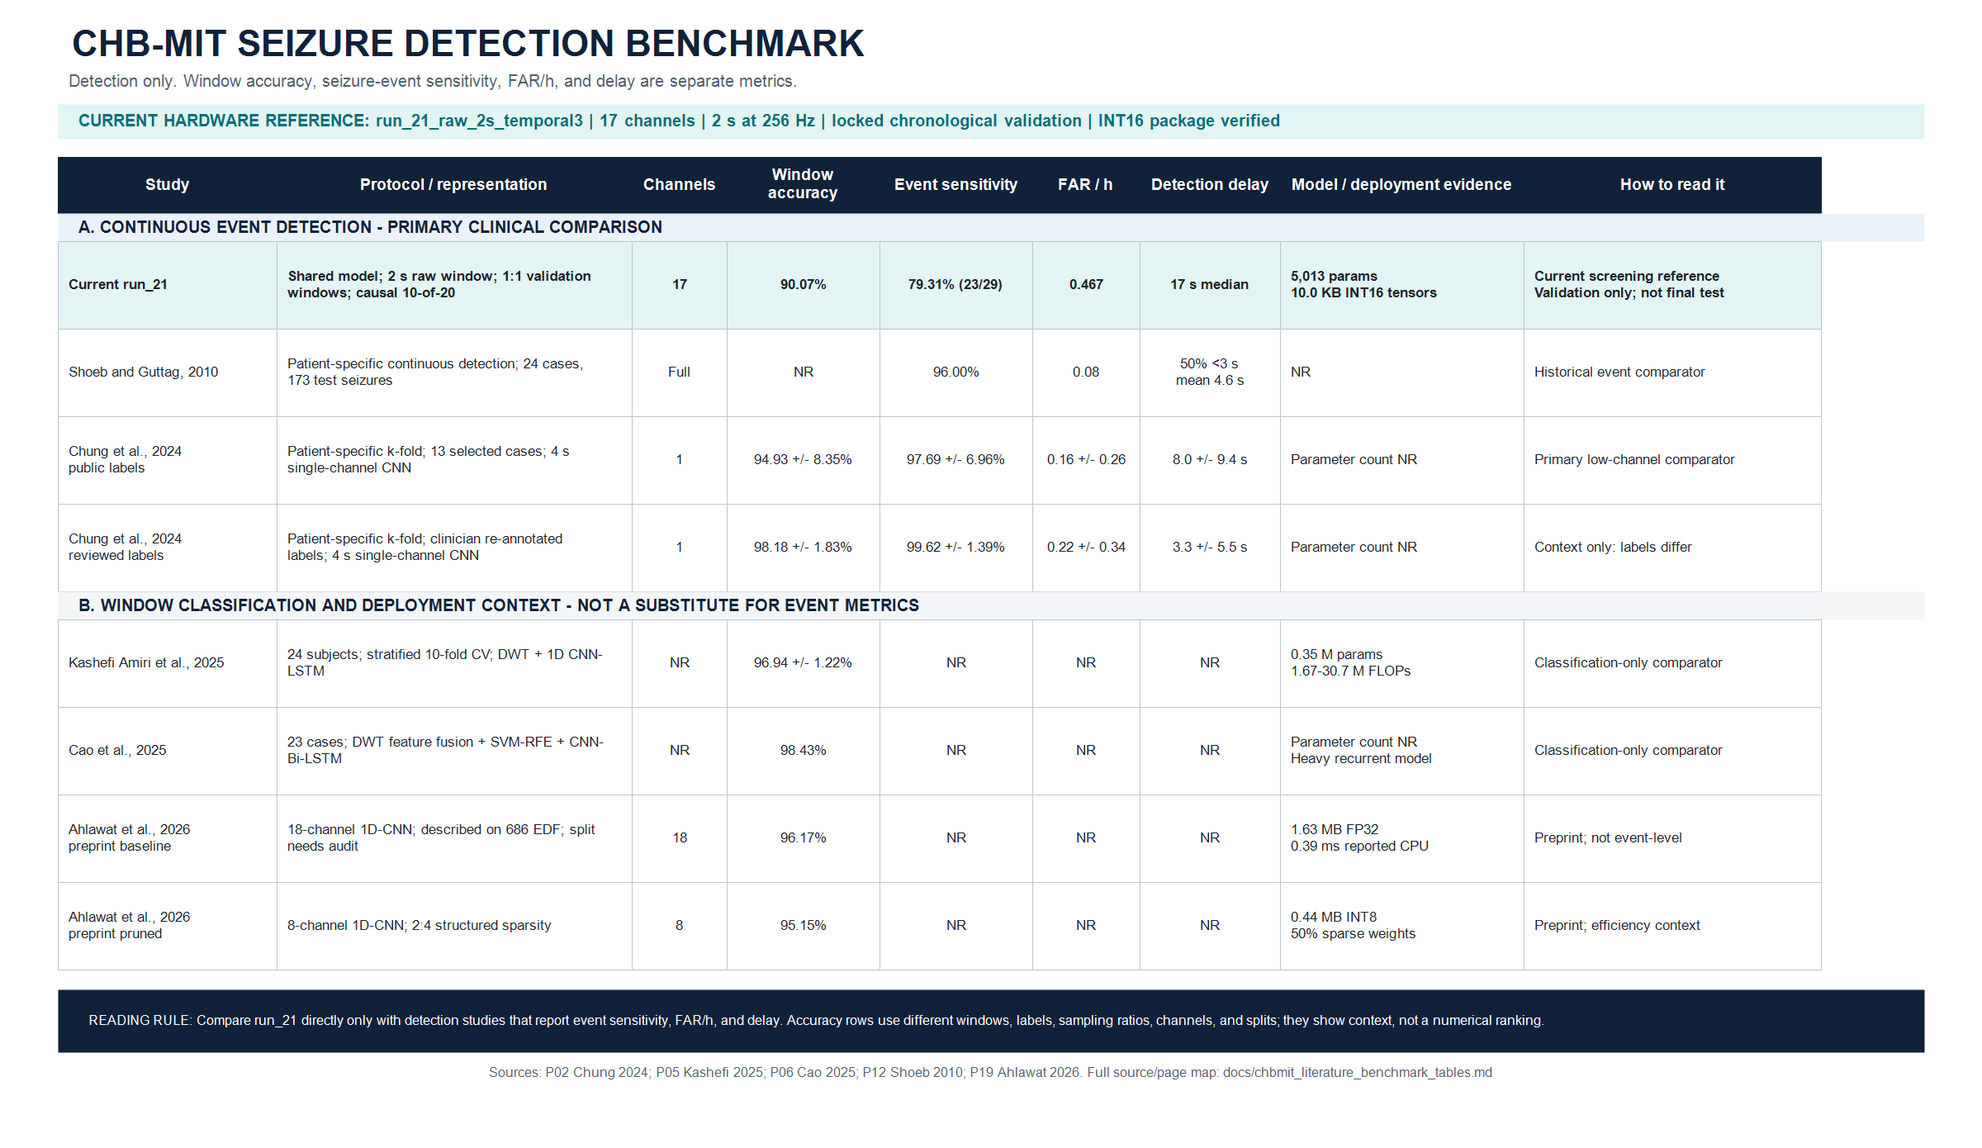
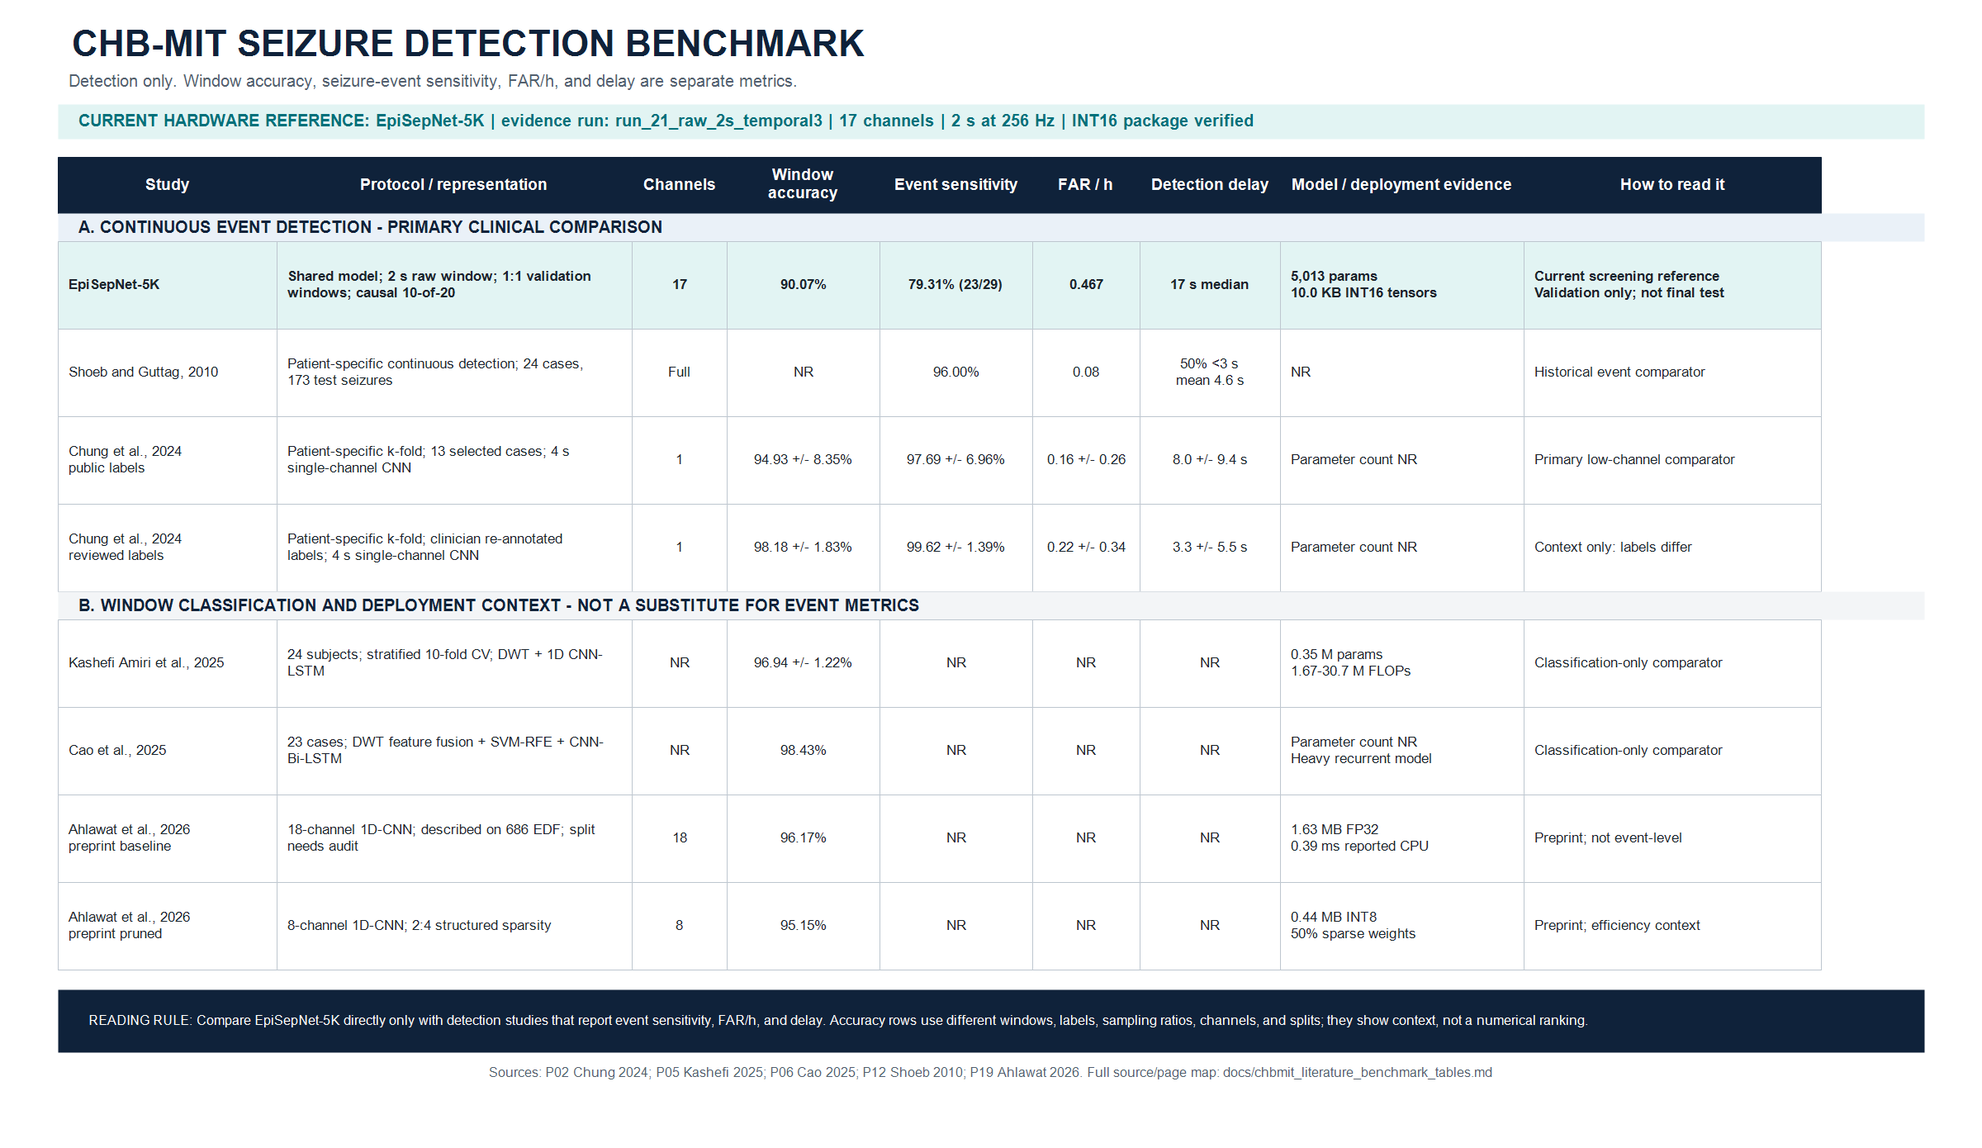
docs: name EpiSepNet benchmark reference

Changed region(s): [[0.125, 0.8662, 0.7812, 0.8971], [0.1875, 0.0928, 0.6562, 0.1237], [0.0312, 0.2475, 0.0625, 0.2784]]

diff --git a/AI_train_model/docs/paper_benchmark_comparison.md b/AI_train_model/docs/paper_benchmark_comparison.md
@@ -48,14 +48,15 @@ The current exploratory test split contains about 91% non-seizure windows;
 therefore its raw accuracy must never be compared to a paper headline or used
 as a clinical selection objective.
 
-## Current Reference: `run_21_raw_2s_temporal3`
+## Current Reference: EpiSepNet-5K
 
-The current model reference is a raw 17-channel separable 1D-CNN trained with
-2-second windows at 256 Hz and a 1-second stride. It uses train-only channel
-z-score normalization, 5,013 trainable parameters, and a causal alarm time at
-the end of each 2-second input window. It is a **validation-only architecture
-screening result** under the locked within-case chronological split; no test
-inference was used to select it.
+**EpiSepNet-5K** is a raw 17-channel separable 1D-CNN trained with 2-second
+windows at 256 Hz and a 1-second stride. It uses train-only channel z-score
+normalization, 5,013 trainable parameters, and a causal alarm time at the end
+of each 2-second input window. Its source experiment is
+`run_21_raw_2s_temporal3`. It is a **validation-only architecture screening
+result** under the locked within-case chronological split; no test inference
+was used to select it.
 
 | Current-model item | Value |
 |---|---:|
@@ -85,7 +86,7 @@ class ratios differ.
 
 | Study | Task and protocol | Reported accuracy | Difference from current 90.07% | Hardware-size evidence |
 |---|---|---:|---:|---|
-| **Current `run_21`** | 17-channel ictal/non-seizure; 2 s; locked within-case chronological validation; 1:1 sampled windows | **90.07%** | 0.00 pp | 5,013 trainable parameters; 10,030 B INT16 tensors |
+| **EpiSepNet-5K** | 17-channel ictal/non-seizure; 2 s; locked within-case chronological validation; 1:1 sampled windows | **90.07%** | 0.00 pp | 5,013 trainable parameters; 10,030 B INT16 tensors |
 | Chung et al. 2024, public labels | Patient-specific; 13 selected cases; one clinical channel; k-fold segment evaluation | 94.93% +/- 8.35% | -4.86 pp | Not reported in a directly comparable form |
 | Kashefi Amiri et al. 2025 | DWT + 1D CNN-LSTM; 10-fold classification | 96.94% +/- 1.22% | -6.87 pp | Reports complexity around 1.67e6; not a parameter count |
 | Alharthi et al. 2022 | Selected-channel 1D-CNN + Bi-LSTM + attention; integrated clinical/CHB-MIT data | up to 96.87% | -6.80 pp | Not reported in a directly comparable form |
@@ -104,12 +105,12 @@ only papers that report a continuous event sensitivity plus false-alarm rate.
 
 | Study | Evaluation setting | Event sensitivity | FAR/h | Delay | Comparison status |
 |---|---|---:|---:|---:|---|
-| **Current `run_21`** | Shared 17-channel model; locked within-case chronological validation; public CHB-MIT labels; causal window-end alarm | **79.31%** | **0.4671** | 17 s median | Current screening reference; not final test result |
+| **EpiSepNet-5K** | Shared 17-channel model; locked within-case chronological validation; public CHB-MIT labels; causal window-end alarm | **79.31%** | **0.4671** | 17 s median | Current screening reference; not final test result |
 | Shoeb and Guttag 2010 | Patient-specific; 24 cases; 916 h continuous test EEG; 173 test seizures | 96% | 0.083 median | 3 s median | Historical continuous-detection comparator |
 | Chung et al. 2024, public labels | Patient-specific; 13 selected cases; single clinical channel | 97.69% +/- 6.96% | 0.16 +/- 0.26 | 8.0 +/- 9.4 s | Primary device-oriented comparator |
 | Chung et al. 2024, reviewed labels | Patient-specific; clinician-reviewed annotations | 99.62% +/- 1.39% | 0.22 +/- 0.34 | 3.3 +/- 5.5 s | Context only; labels are different |
 
-At the internal screening constraint of FAR <= 0.5/h, `run_21` reaches the
+At the internal screening constraint of FAR <= 0.5/h, EpiSepNet-5K reaches the
 constraint but remains below the external event-sensitivity references. Its
 gap to Chung's public-label mean is 18.38 percentage points in sensitivity and
 its FAR/h is 0.3071 higher. Delay is not subtracted numerically because the
@@ -117,7 +118,7 @@ current value is a median while Chung reports mean +/- standard deviation.
 
 ## Hardware Benchmark Position
 
-`run_21` is currently the only model in this repository with both a selected
+EpiSepNet-5K is currently the only model in this repository with both a selected
 window-classification result and a verified fixed-point package. BatchNorm
 folding changes logits by at most `3.81e-06`; INT16 emulation preserves
 validation sensitivity and has 99.9743% prediction agreement with the folded
@@ -128,7 +129,7 @@ continuous event metrics after fixed-point deployment.
 
 ## Benchmark Decision
 
-For the next model iterations, retain `run_21` as the **accuracy and compact
+For the next model iterations, retain EpiSepNet-5K as the **accuracy and compact
 hardware reference**. The next candidate must be compared on validation only
 and should improve the causal event frontier: event sensitivity above 79.31%
 while retaining FAR <= 0.5/h and not increasing the 17 s median delay. A final

diff --git a/AI_train_model/docs/chbmit_literature_benchmark_tables.md b/AI_train_model/docs/chbmit_literature_benchmark_tables.md
@@ -22,6 +22,9 @@ The current project is in the **continuous detection** track. Its 90.07%
 number belongs only to the balanced-window table; it is not event sensitivity
 and it is not a prediction result.
 
+The count and provenance of all available result rows are recorded in
+[`chbmit_benchmark_evidence_inventory.md`](chbmit_benchmark_evidence_inventory.md).
+
 ## A. Seizure Prediction on CHB-MIT
 
 This reproduces and extends the structure of Zhang et al. Table IV. `SPH` is
@@ -67,7 +70,7 @@ held-out test evidence.
 | Khanmohammadi et al. | 5 | NR | Time statistics + spectral power | Adaptive distance change-point detector | 96.00 | 0.12 | 4.2 | NR | Secondary: P02, p. 9 |
 | Chung et al., 2024, public labels | 1, clinical per case | 13 selected cases | 4 s time series + parallel stacked 2D-CNN | **97.69 +/- 6.96** | **0.16 +/- 0.26** | 8.0 +/- 9.4 | 94.93 +/- 8.35 | Primary; direct P02, pp. 5, 7-8. Patient-specific k-fold. |
 | Chung et al., 2024, reviewed labels | 1, clinical per case | 13 selected cases | 4 s time series + parallel stacked 2D-CNN | 99.62 +/- 1.39 | 0.22 +/- 0.34 | 3.3 +/- 5.5 | 98.18 +/- 1.83 | Context only: clinician re-annotations differ from public labels; direct P02, pp. 6, 8. |
-| **Current `run_21_raw_2s_temporal3`** | **17** | **validation: 29 events** | **2 s raw window + compact separable 1D-CNN; causal 10-of-20 policy** | **79.31 (23/29)** | **0.4671** | **17 median** | **90.07 balanced-window** | Validation-only locked within-case chronological screening; not a final paper result. |
+| **EpiSepNet-5K** | **17** | **validation: 29 events** | **2 s raw window + compact separable 1D-CNN; causal 10-of-20 policy** | **79.31 (23/29)** | **0.4671** | **17 median** | **90.07 balanced-window** | Evidence run `run_21_raw_2s_temporal3`; validation-only screening, not a final paper result. |
 
 **Continuous-detection interpretation.** The current project meets its internal
 screening limit of `FAR <= 0.5/h`, but does not yet match the external
@@ -91,8 +94,8 @@ clinical false-alarm rate.
 | Ahlawat et al., 2026 preprint | 18 channels; protocol described on 686 EDF | Baseline 1D-CNN | 96.17 | NR | 1.63 MB FP32; 0.39 ms reported CPU latency | Direct: P19, pp. 2-3, 7. Preprint; split details must be checked. |
 | Ahlawat et al., 2026 preprint | 8 channels; 2:4 sparse | Pruned 1D-CNN | 95.15 | NR | 50% sparse weights; 55% channel reduction | Direct: P19, p. 7. Preprint; not event-level. |
 | Chen et al., 2026 | Pareto channel/frequency configurations | Channel-frequency selection | 82.17 to 99.83 | NR | 1 to 8 selected channels and 1 to 12 bands | Direct: P30, p. 4. Classification setting; details/split must be checked. |
-| **Current `run_21_raw_2s_temporal3`, FP32** | **17 channels; locked within-case chronological validation; 1:1 windows** | **Raw 2 s separable 1D-CNN** | **90.0718** | **90.7645** | **5,013 parameters; 28,130 B checkpoint** | Reproducible local result: `results/reference/run_21_raw_2s_temporal3/validation_summary.json` |
-| **Current `run_21_raw_2s_temporal3`, INT16 emulation** | **Same validation windows** | **BatchNorm-folded signed-INT16 tensor package** | **90.0462** | **90.7645** | **10,030 B tensors; 99.9743% FP32/INT16 agreement** | Reproducible local result: `fpga/reference_run_21_int16/quantization_report.json` |
+| **EpiSepNet-5K, FP32** | **17 channels; locked within-case chronological validation; 1:1 windows** | **Raw 2 s separable 1D-CNN** | **90.0718** | **90.7645** | **5,013 parameters; 28,130 B checkpoint** | Evidence run `run_21_raw_2s_temporal3`; local result: `results/reference/run_21_raw_2s_temporal3/validation_summary.json` |
+| **EpiSepNet-5K, INT16 emulation** | **Same validation windows** | **BatchNorm-folded signed-INT16 tensor package** | **90.0462** | **90.7645** | **10,030 B tensors; 99.9743% FP32/INT16 agreement** | Local result: `fpga/reference_run_21_int16/quantization_report.json` |
 
 ## D. How This Benchmark Must Be Used
 
@@ -102,7 +105,7 @@ clinical false-alarm rate.
   event sensitivity, FAR/h, and delay must always appear together.
 - Use Table C to report `accuracy` and deployment efficiency, with the
   sampling ratio, window length, channel count, and validation protocol.
-- `run_21` is the compact accuracy and fixed-point reference, not proof that it
+- EpiSepNet-5K is the compact accuracy and fixed-point reference, not proof that it
   outperforms any paper. Its next candidate must exceed 79.31% validation
   event sensitivity while retaining FAR <= 0.5/h and median delay <=17 s.
 - Before submission, verify every `secondary` row from its original paper and

diff --git a/AI_train_model/docs/chbmit_benchmark_evidence_inventory.md b/AI_train_model/docs/chbmit_benchmark_evidence_inventory.md
@@ -1,0 +1,44 @@
+# CHB-MIT Benchmark Evidence Inventory
+
+## Why the Visual Benchmark Has Few Rows
+
+The compact image contains eight rows because it is a **decision table**, not a
+literature dump. It retains only the current model, the closest continuous
+event-detection comparators, and a small set of classification/hardware
+contexts. A single figure containing every historical result would mix three
+different tasks and become scientifically misleading.
+
+## Available Evidence
+
+| Evidence source | Extractable CHB-MIT result rows | What the rows contain | Evidence status |
+|---|---:|---|---|
+| Zhang et al. 2020, P01 Table IV | 8 | Seizure-prediction studies: cases, seizures, features, classifier, SEN, FPR/h, SPH | 7 prior papers are secondary; Zhang is direct |
+| Chung et al. 2024, P02 Table 2 and Table 3 | 17 | 13 prior continuous detectors plus 4 Chung channel/annotation configurations; event SEN, FAR/h, delay where reported | Prior-paper rows are secondary; Chung rows are direct |
+| Ozkurt et al. 2021, P15 Tables 1-4 | 51 raw rows, 44 unique cited studies | Time, frequency, time-frequency, and nonlinear detection studies; window, subjects, features, classifier, accuracy/SEN/SPE where reported | Secondary evidence; duplicate protocols must be merged carefully |
+| Recent direct result papers P04-P09, P12, P19, P30 | 12 local source documents | Modern prediction/detection/classification/efficiency results and model evidence | Direct where the paper reports its own result |
+
+The first three sources alone contain **76 historical result rows** before
+cross-source deduplication. That is not 76 directly comparable studies: the
+same paper can appear in more than one survey table or report multiple
+protocols. The exact number of unique, paper-level comparators must be computed
+from a normalized master dataset, using `paper + task + protocol` as the key.
+
+## What Is Usable for Each Claim
+
+| Benchmark output | Include | Exclude |
+|---|---|---|
+| Main clinical figure | Continuous detection studies with event sensitivity, FAR/h, and delay | Prediction and accuracy-only papers |
+| Accuracy/model-size figure | Window-classification studies with declared split, window/channel policy, and model cost | Event-only studies without accuracy; incomparable data integration studies |
+| Prediction appendix | Pre-ictal/interictal methods with SEN, FPR/h, and SPH | Ictal seizure detectors |
+| Literature master dataset | All rows, tagged `direct`, `secondary`, or `metadata_only` | No rows; provenance remains visible |
+
+## Next Required Artifact
+
+Build `chbmit_benchmark_master.csv` with one row per
+`paper + task + protocol + result configuration` and fields for source page,
+source tier, patient/seizure coverage, split, channels, window, metrics, and
+hardware cost. Deduplicate only after preserving distinct configurations.
+
+The compact visual table should then be generated from this master dataset with
+a documented filter, rather than manually selected rows. This is the standard
+needed before using the benchmark in a manuscript.

diff --git a/AI_train_model/docs/model_identity.md b/AI_train_model/docs/model_identity.md
@@ -1,0 +1,39 @@
+# Model Identity
+
+## Canonical Name
+
+The current compact seizure-detection model is named **EpiSepNet-5K**:
+
+> **Epi**leptic seizure **Sep**arable **Net**work with approximately 5K
+> trainable parameters.
+
+This is the model name used in benchmark tables, figures, FPGA documents, and
+future manuscripts. It describes the 17-channel raw, depthwise-separable
+1D-CNN architecture, not a clinical product and not a claim of final clinical
+validation.
+
+## Provenance
+
+| Identity item | Value |
+|---|---|
+| Model name | `EpiSepNet-5K` |
+| Architecture code | `separable_1dcnn` with 3 temporal filters per input channel |
+| Current evidence run | `run_21_raw_2s_temporal3` |
+| Input | 17 bipolar channels, 2 s at 256 Hz, 1 s stride |
+| Training parameters | 5,013 |
+| Fixed-point package | `fpga/reference_run_21_int16/` |
+| Current validation window accuracy | 90.0718% |
+| Current causal validation event point | 23/29 events, 0.4671 FAR/h, 17 s median delay |
+
+`run_21_raw_2s_temporal3` remains the immutable experiment identifier. It is
+needed to reproduce checkpoint, scaler, score arrays, threshold sweep, and
+FPGA export, but it must not be used as the model name in figures or prose.
+
+## Versioning Rule
+
+- `EpiSepNet-5K` denotes this fixed architecture and its selected 2-second
+  configuration.
+- A changed architecture receives a new model name; it is not called
+  `EpiSepNet-5K` merely because it has a similar parameter count.
+- A new seed, threshold, or prepared data instance receives a new run ID but
+  keeps the same model name when architecture and protocol are unchanged.

diff --git a/AI_train_model/docs/window_duration_ablation_protocol.md b/AI_train_model/docs/window_duration_ablation_protocol.md
@@ -34,12 +34,13 @@ the more expensive 4-second ablation.
 The zero-phase filtering remains offline exploratory preprocessing. A final
 FPGA claim still requires causal/stateful filtering and a full remeasurement.
 
-## Recorded Result: `run_21_raw_2s_temporal3`
+## Recorded Result: EpiSepNet-5K
 
-This run is the current **window-classification reference**. It preserves the
-raw separable temporal3 training configuration and changes only the input
-window from 1 s to 2 s. Model selection used the lowest validation loss at
-epoch 24; no test inference was run.
+**EpiSepNet-5K** is the current **window-classification reference**. Its
+evidence run, `run_21_raw_2s_temporal3`, preserves the raw separable temporal3
+training configuration and changes only the input window from 1 s to 2 s.
+Model selection used the lowest validation loss at epoch 24; no test inference
+was run.
 
 | Validation window metric | Value |
 |---|---:|
@@ -59,5 +60,5 @@ This event-level point meets the internal FAR constraint (`<= 0.5/h`) and
 improves event sensitivity over the 1-second causal baseline (21/29). It is
 not, however, a predeclared clinical replacement under the selection rule
 above: its FAR is slightly higher than `0.4552/h` and its median delay is
-higher than 14 s. Therefore `run_21` is locked as the window-level accuracy
+higher than 14 s. Therefore EpiSepNet-5K is locked as the window-level accuracy
 reference and a promising low-FAR event candidate, not a final clinical claim.

diff --git a/README.md b/README.md
@@ -5,14 +5,15 @@ corpus, with an FPGA-oriented deployment path for KV260.
 
 ## Current Reference
 
-The current reference is `run_21_raw_2s_temporal3`. It is a validation-only
-result under the locked within-case chronological protocol; test inference was
-intentionally skipped.
+The current reference model is **EpiSepNet-5K**. Its evidence run is
+`run_21_raw_2s_temporal3`; this is a validation-only result under the locked
+within-case chronological protocol, and test inference was intentionally
+skipped.
 
 | Item | Current value |
 |---|---:|
 | Input | 17 bipolar EEG channels, 2 s x 256 Hz, 1 s stride |
-| Backbone | Raw separable 1D-CNN, 3 temporal filters per channel |
+| Backbone | **EpiSepNet-5K**: raw separable 1D-CNN, 3 temporal filters per channel |
 | Trainable parameters | **5,013** |
 | Checkpoint size | **28 KB** |
 | Validation window accuracy | **90.07%** |
@@ -45,6 +46,8 @@ and
 The full CHB-MIT literature tables, separated into prediction, continuous
 detection, and window-classification evidence, are in
 [`AI_train_model/docs/chbmit_literature_benchmark_tables.md`](AI_train_model/docs/chbmit_literature_benchmark_tables.md).
+The model-name and experiment-ID convention is in
+[`AI_train_model/docs/model_identity.md`](AI_train_model/docs/model_identity.md).
 
 ## Repository Layout
 

diff --git a/AI_train_model/docs/benchmark_definition_and_comparability.md b/AI_train_model/docs/benchmark_definition_and_comparability.md
@@ -48,12 +48,12 @@ All values below use the locked 17-channel within-case chronological protocol an
 
 | Role | Run | Event result and split | FAR/h | Median delay |
 |---|---|---:|---:|---:|
-| Current causal screening reference | `run_21_raw_2s_temporal3` validation only | 23/29 = 79.31% | 0.467 | 17.0 s |
+| Current causal screening reference | **EpiSepNet-5K** (`run_21_raw_2s_temporal3`), validation only | 23/29 = 79.31% | 0.467 | 17.0 s |
 | High-sensitivity reference | `run_01` | 60/62 = 96.77% | 41.26 | 11.0 s |
 | Low-FAR reference | `run_03_mixed_hardneg` | 36/62 = 58.06% | 0.341 | 13.5 s |
 | Higher-sensitivity sub-0.5 FAR point | `run_04_score_tcn` | 40/62 = 64.52% | 0.422 | 14.0 s |
 
-`run_21` is the current compact-model reference because it is the first
+EpiSepNet-5K is the current compact-model reference because it is the first
 validation-only causal point above 79% event sensitivity while remaining below
 0.5 FAR/h. A future candidate should exceed 79.31% sensitivity while retaining
 FAR <= 0.5/h and no worse than the 17 s median delay. The historical test

diff --git a/AI_train_model/docs/q1_evidence_and_next_steps.md b/AI_train_model/docs/q1_evidence_and_next_steps.md
@@ -17,8 +17,8 @@ The policy and threshold for each row were selected on validation only. The cont
 
 ## Current Validation Window Reference
 
-`run_21_raw_2s_temporal3` is the best current validation window-classification
-result under the locked within-case protocol: accuracy `90.07%`, balanced
+**EpiSepNet-5K** (`run_21_raw_2s_temporal3`) is the best current validation
+window-classification result under the locked within-case protocol: accuracy `90.07%`, balanced
 accuracy `90.07%`, sensitivity `90.76%`, F1 `90.14%`, AUROC `96.58%`, and
 average precision `96.98%`. It uses 2-second raw 17-channel windows at 256 Hz,
 a 1-second stride, train-only normalization, and the compact separable

diff --git a/AI_train_model/fpga/README.md b/AI_train_model/fpga/README.md
@@ -17,10 +17,10 @@ The current package starts at filtered and normalized EEG windows. The corpus
 preprocessing still uses offline zero-phase filters, so causal FPGA filtering
 and hardware-in-the-loop event evaluation remain separate work.
 
-## Verified `run_21` Package
+## Verified EpiSepNet-5K Package
 
 The committed package at `reference_run_21_int16/` was generated from
-`run_21_raw_2s_temporal3`, whose checkpoint SHA-256 is
+EpiSepNet-5K evidence run `run_21_raw_2s_temporal3`, whose checkpoint SHA-256 is
[1 lines of base64/hex data omitted]
 
 | Check | Result |
